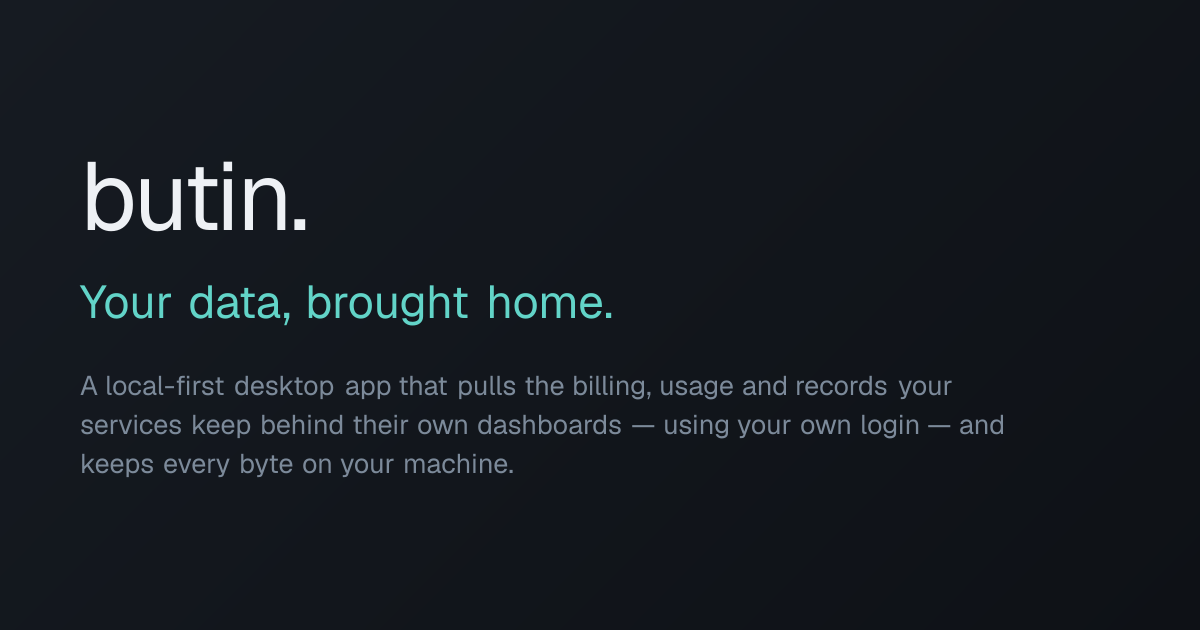
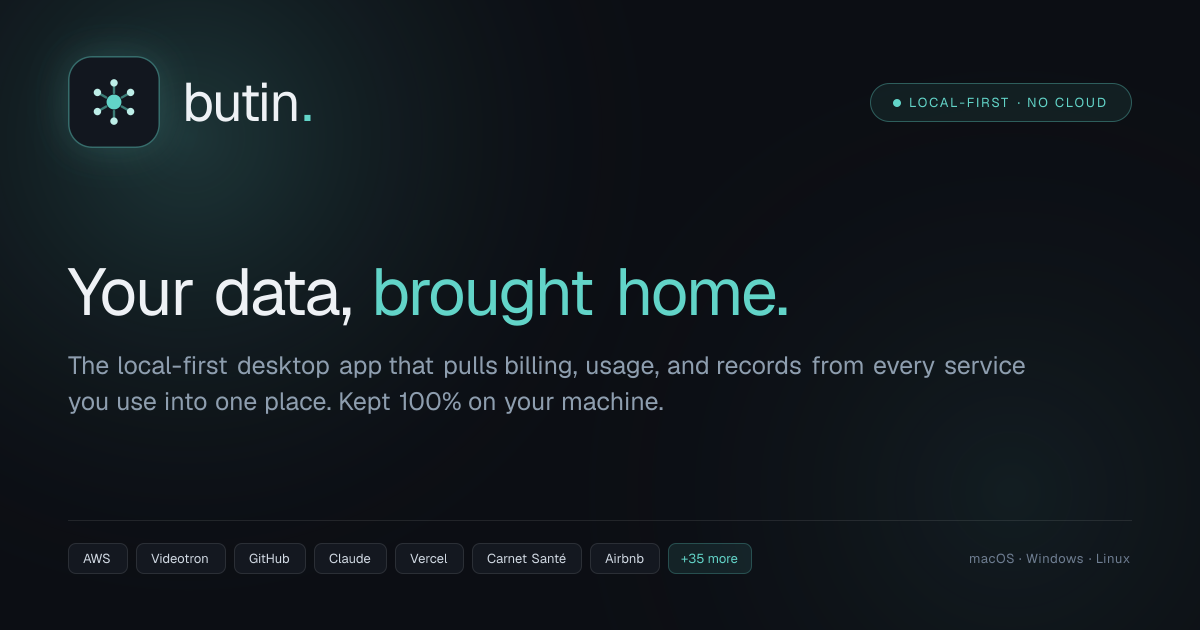
chore: update og

diff --git a/packages/website/app/fr/(site)/page.tsx b/packages/website/app/fr/(site)/page.tsx
@@ -10,19 +10,42 @@ const SERVICE_COUNT = visibleServices.length
 export const metadata: Metadata = {
   title: 'Tous vos comptes. Un seul endroit.',
   description:
-    'Une application de bureau locale qui réunit la facturation, l’utilisation et les documents de tous vos services au même endroit sur votre ordinateur.'
+    'Une application de bureau locale qui réunit la facturation, l’utilisation et les documents de tous vos services au même endroit sur votre ordinateur.',
+  openGraph: {
+    title: 'Butin — Vos données, chez vous.',
+    description:
+      'Une application de bureau locale qui réunit la facturation, l’utilisation et les documents de tous vos services au même endroit sur votre ordinateur.',
+    url: 'https://butin.app/fr',
+    siteName: 'Butin',
+    type: 'website',
+    images: [
+      {
+        url: '/fr/opengraph-image.png',
+        width: 1200,
+        height: 630,
+        alt: 'Butin — Vos comptes réunis. Chez vous.'
+      }
+    ]
+  },
+  twitter: {
+    card: 'summary_large_image',
+    title: 'Butin — Vos données, chez vous.',
+    description:
+      'Une application de bureau locale qui réunit la facturation, l’utilisation et les documents de tous vos services au même endroit sur votre ordinateur.',
+    images: ['/fr/opengraph-image.png']
+  }
 }
 
 const stripServices = [
-  'Videotron',
-  'Hydro-Québec',
-  'Carnet Santé',
-  'Hydro-Solution',
+  'Vidéotron',
   'AWS',
-  'Stripe',
+  'Carnet Santé',
+  'Claude',
   'GitHub',
+  'Hydro-Solution',
   'Vercel',
-  'Claude'
+  'Airbnb',
+  'Google Workspace'
 ]
 
 const Kicker = ({ children }: { children: React.ReactNode }) => (

diff --git a/packages/website/app/layout.tsx b/packages/website/app/layout.tsx
@@ -27,9 +27,23 @@ export const metadata: Metadata = {
       'A local-first desktop app that puts all your accounts in one place. Billing, usage, and documents stored locally on your machine.',
     url: 'https://butin.app',
     siteName: 'Butin',
-    type: 'website'
+    type: 'website',
+    images: [
+      {
+        url: '/opengraph-image.png',
+        width: 1200,
+        height: 630,
+        alt: 'Butin — your data, brought home'
+      }
+    ]
   },
-  twitter: { card: 'summary_large_image', title: 'Butin', description: 'Your data, brought home.' }
+  twitter: {
+    card: 'summary_large_image',
+    title: 'Butin — your data, brought home',
+    description:
+      'A local-first desktop app that puts all your accounts in one place. Billing, usage, and documents stored locally on your machine.',
+    images: ['/opengraph-image.png']
+  }
 }
 
 export default function RootLayout({ children }: { children: ReactNode }) {

diff --git a/packages/website/app/(home)/page.tsx b/packages/website/app/(home)/page.tsx
@@ -9,14 +9,14 @@ const SERVICE_COUNT = visibleServices.length
 // so "not just dev tools" lands at a glance.
 const stripServices = [
   'AWS',
-  'Stripe',
-  'GitHub',
-  'Vercel',
   'Videotron',
+  'GitHub',
   'Claude',
-  'Hydro-Solution',
+  'Vercel',
   'Carnet Santé',
-  'Airbnb'
+  'Airbnb',
+  'Hydro-Solution',
+  'Google Workspace'
 ]
 
 const Kicker = ({ children }: { children: React.ReactNode }) => (
